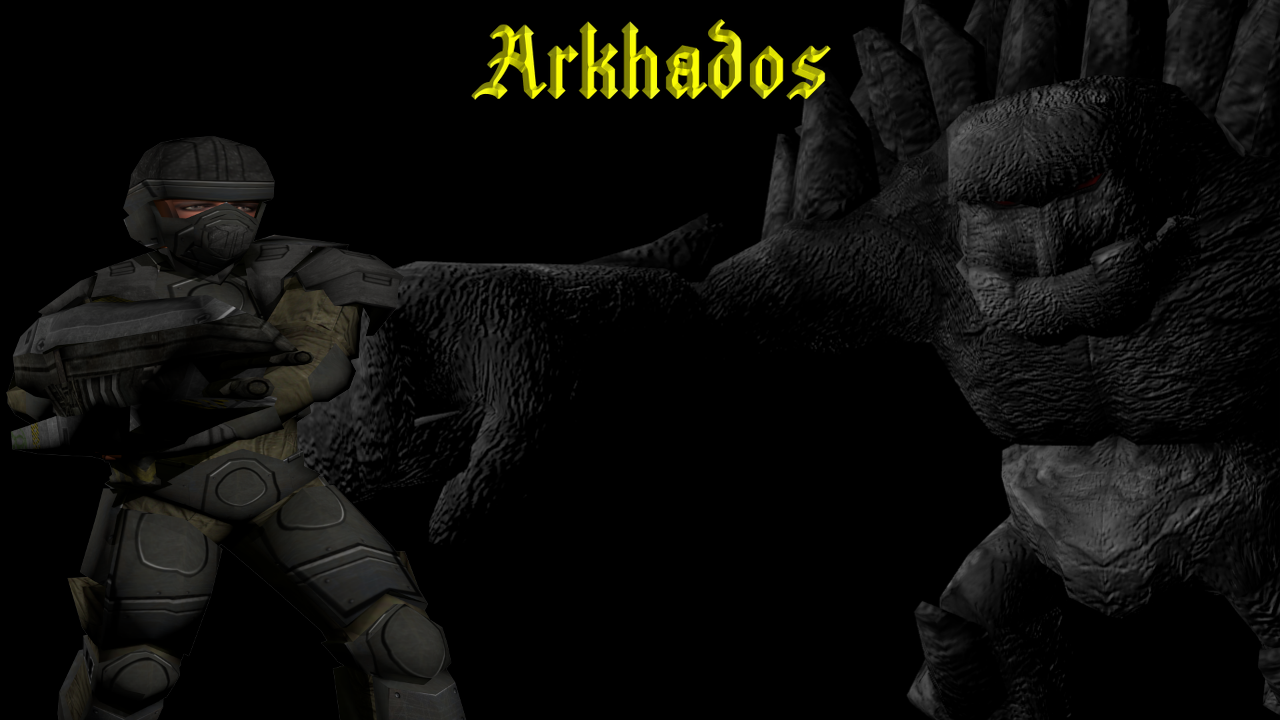
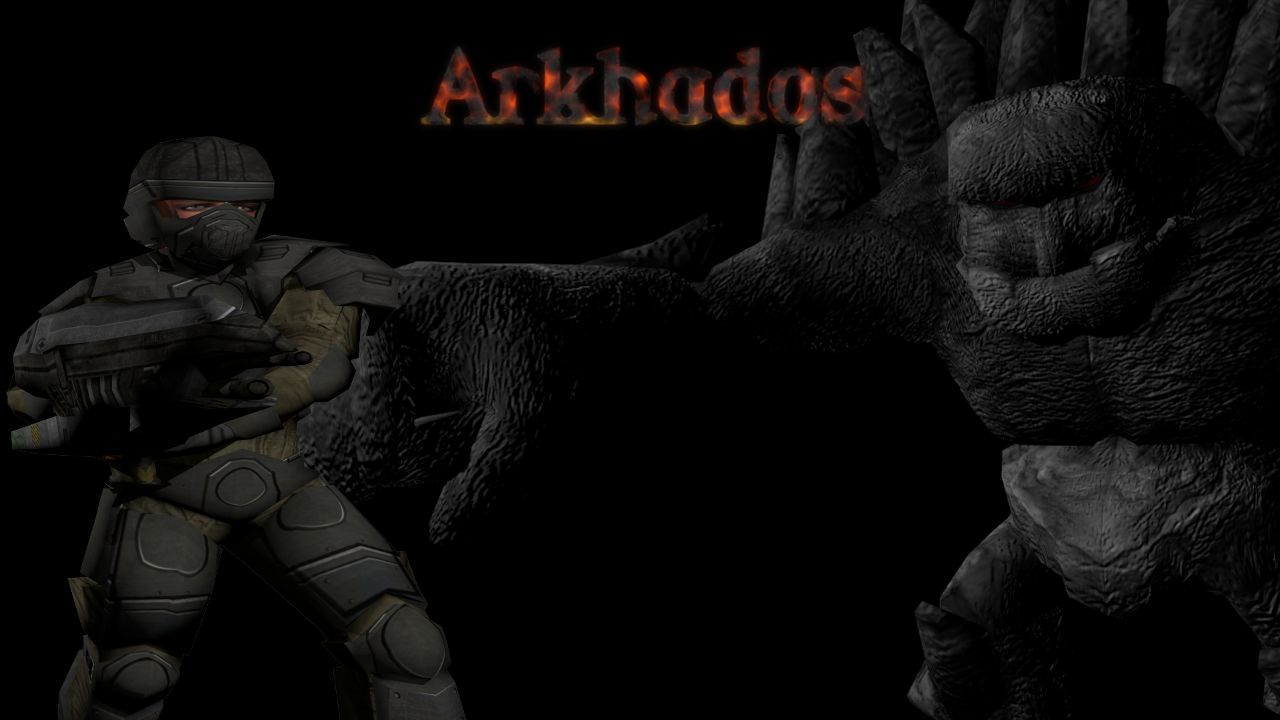
Changed Background and Splash -images

Changed region(s): [[0.3125, 0.0306, 0.6875, 0.1833]]

diff --git a/CREDITS.md b/CREDITS.md
@@ -9,7 +9,8 @@ are all awesome!
 
 ## Graphics ##
 
-- Kimmo Näveri – Logo
+- William Linna - Logo and some icons and animations
+- Kimmo Näveri - Original logo
 
 ## Sound effects ##
 
@@ -17,8 +18,8 @@ are all awesome!
 
 ## Designs ##
 
-- Allexit - Hero designs
 - William Linna - Hero designs
+- Allexit - Hero designs
 
 ## Code contributions ##
 
@@ -261,5 +262,4 @@ of that sound is used (with small modifications) for Petrify.wav. Sound is licen
 Independent.nu for DeepWounds sound effect. DeepWounds.wav is based on
 Independent.nu's [squish and and splatter sequences](http://opengameart.org/content/2-wooden-squish-splatter-sequences). Sound is licensed under CC0
 
-
-NOTE: There will be ingame credits screen when game matures more.
+[skuax](http://www.blendswap.com/users/view/skuax) for [Cycle Lava Shader](http://www.blendswap.com/blends/view/76979). It is used in Arkhados-logo and 0.5-trailer.
